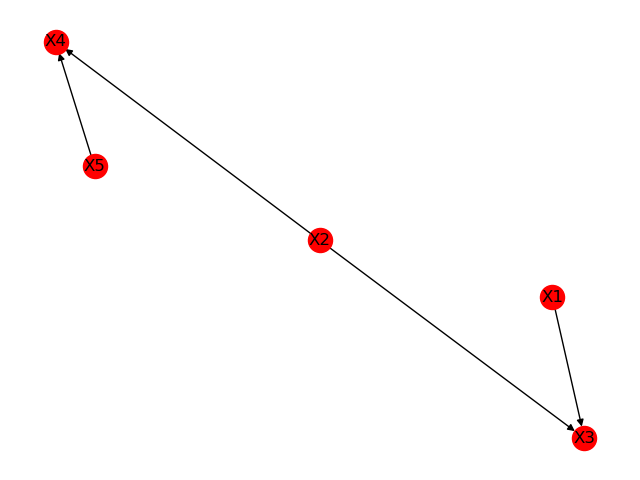
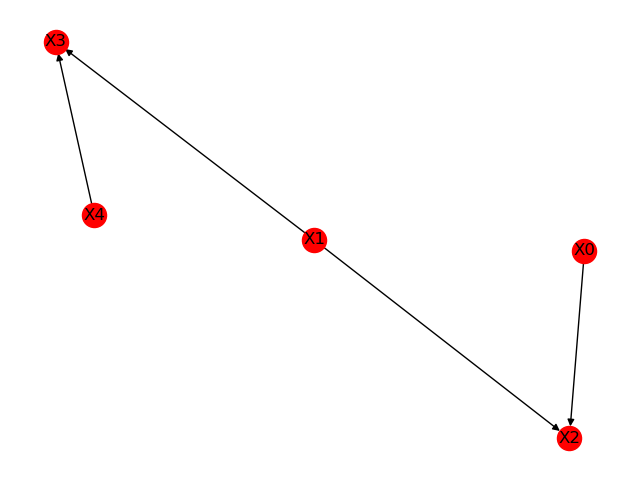
添加了因果关系链dfs

diff --git a/pc.py b/pc.py
@@ -242,6 +242,20 @@ def gaussCItest(suffstat, x, y, S):
     # Φ^{-1}(1-α/2)
     return 2 * (1 - norm.cdf(abs(res)))
 
+def Dfs(graph, k, path, vis):
+    flag = False
+    for i in range(len(graph)):
+        if (graph[i][k] == 1) and (vis[i] != True) :
+            
+            flag =True
+            vis[i] = True
+            path.append(i)
+            Dfs(graph, i, path, vis)
+            path.pop()
+            vis[i] = False
+
+    if flag == False:
+        print(path)
 
 def Draw(graph, labels):
     # 创建空有向图
@@ -264,14 +278,25 @@ if __name__ == '__main__':
     data = pd.read_csv(file)
 
     labels = [
+        "X0",
         "X1",
         "X2",
         "X3",
-        "X4",
-        "X5"
+        "X4"
     ]
 
     row_count = sum(1 for row in data)
     p = pc(suffStat={"C": data.corr().values, "n": data.values.shape[0]}, alpha=.05, labels=[str(i) for i in range(row_count)], indepTest=gaussCItest)
+    # 输出因果图矩阵
     print(p)
+
+    # Dfs 因果关系链
+    start = 2 # 起始异常节点
+    vis = [0 for i in range(row_count)]
+    vis[start] = True
+    path = []
+    path.append(start)
+    Dfs(p, start, path, vis)
+
+    # 画图
     Draw(p, labels)
